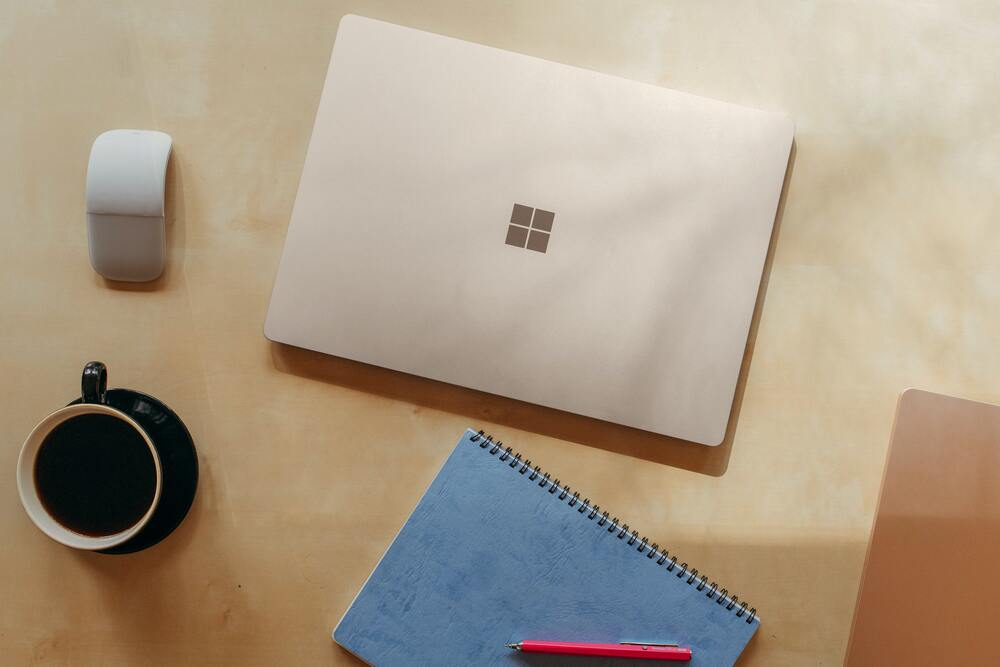
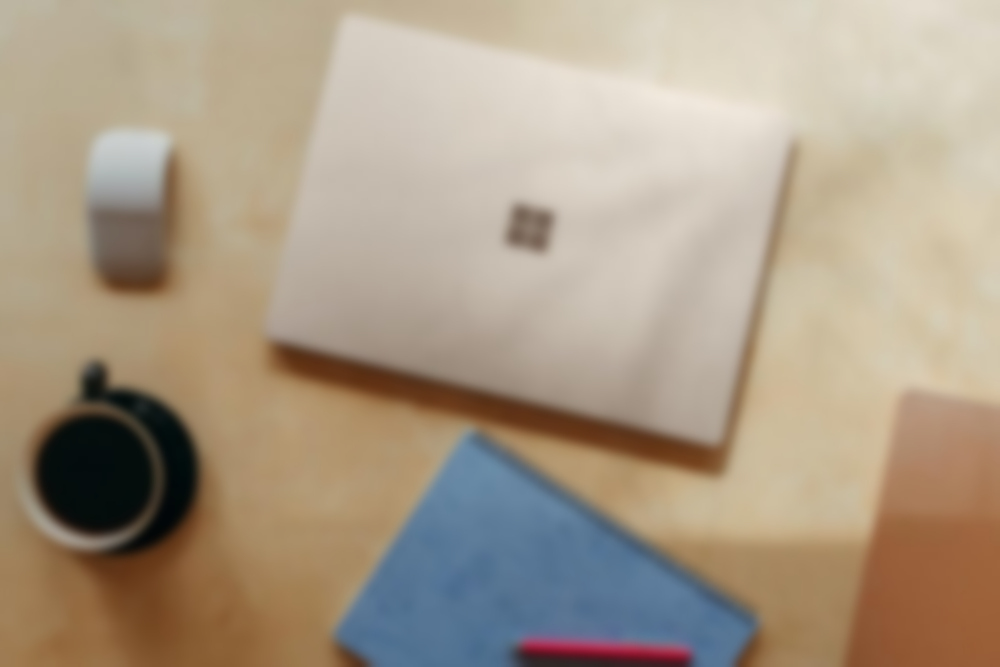
Header changed

diff --git a/app/assets/stylesheets/custom.scss b/app/assets/stylesheets/custom.scss
@@ -7,22 +7,10 @@
   background-size: cover;
   background-position: center;
   background-repeat: no-repeat;
-  backdrop-filter: blur(2px);
 }
 
-.Letter_welcome_enterprise {
-  //-webkit-text-stroke: 1px black;
-  color: black;
-}
-
-.span_header {
-  //-webkit-text-stroke: 1px black;
-  color: black;
-}
-
-.p_header {
-  //-webkit-text-stroke: 1px black;
-  color: black;
+.header-style-content {
+  color: white;
 }
 
 .image_contact {
